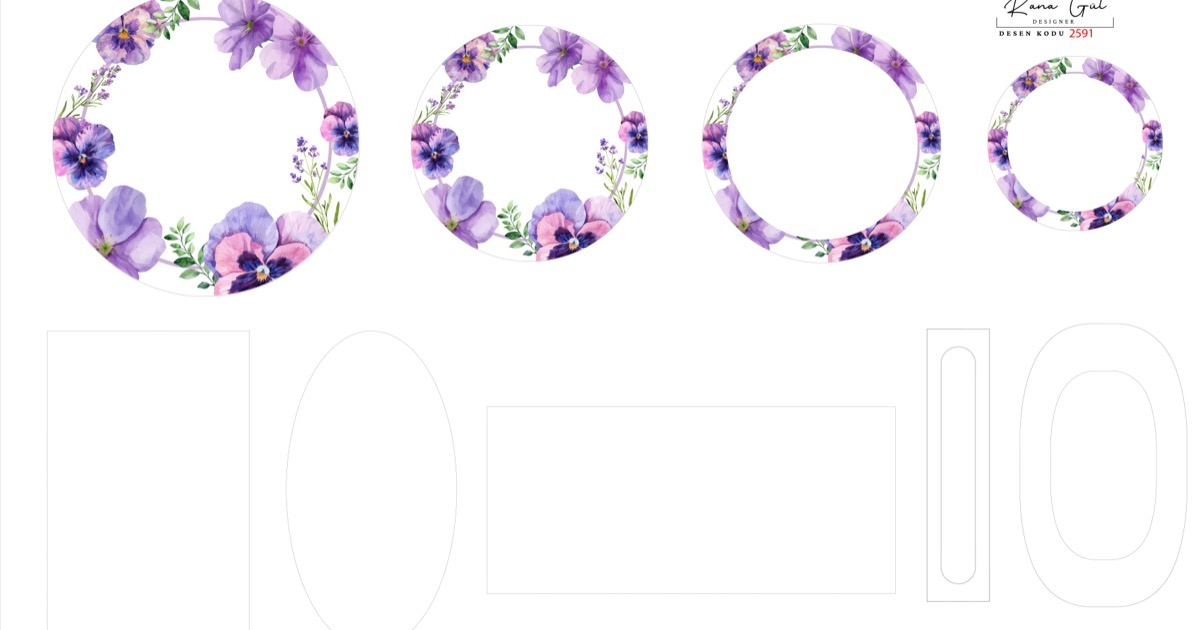
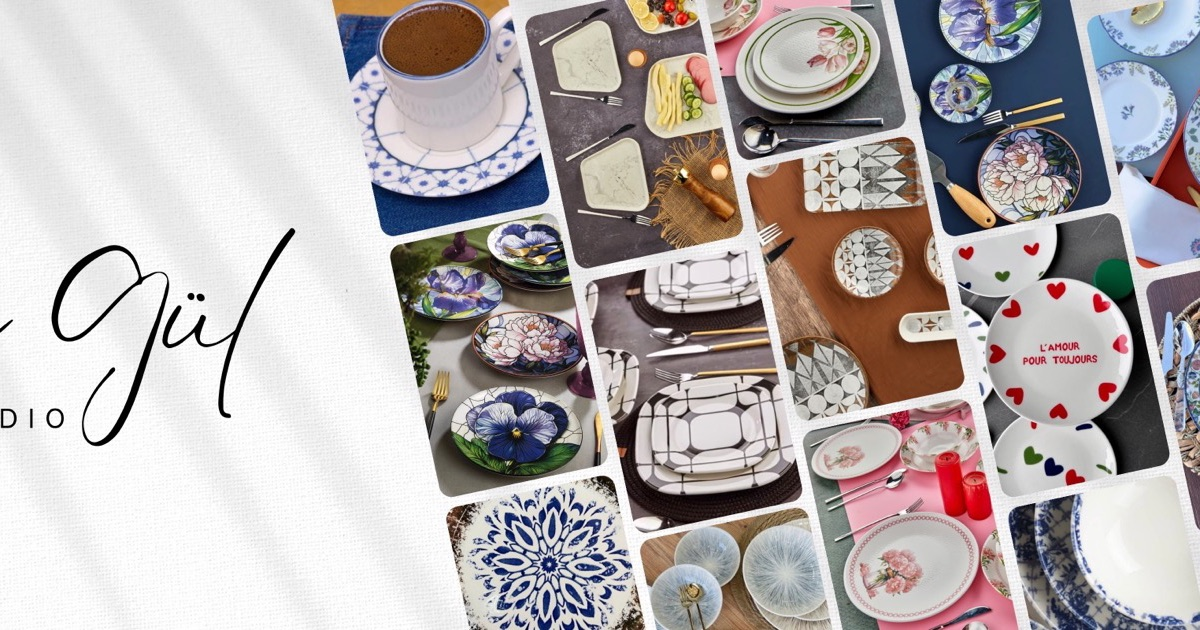
Desen Satın Al: AES-256-GCM şifreleme + şifre kilidi
- Desen önizlemeleri PBKDF2(200k)+AES-GCM ile şifrelendi (desenler-enc/*.enc)
- Şifre girilene kadar tüm bölüm gizli; doğru şifrede tarayıcıda çözülür
- Açık desen JPG'leri repodan/siteden kaldırıldı (.gitignore), yalnızca şifreli yayınlanır
- og-image desen sızdırmaması için kolaj banner'dan yeniden üretildi
- main.js cache-bust (?v=enc1)

diff --git a/js/main.js b/js/main.js
@@ -3,16 +3,43 @@
    Dil değiştirme, mobil menü, galeri/satış üretimi, lightbox.
    ============================================================ */
 
-// --- Desen verisi (DÜZENLE: yeni desen ekleyince buraya bir satır ekle) ---
+// --- Desen verisi (görseller AES ile şifreli; enc = desenler-enc/<id>.enc) ---
 // kategori: "cicekli" | "geometrik" | "botanik"
 const DESENLER = [
-  { kod: "EH DSN 2591", dosya: "desenlerim/EH DSN 2591.jpg", kategori: "cicekli",   fiyat: "₺2.500" },
-  { kod: "EH DSN 2592", dosya: "desenlerim/EH DSN 2592.jpg", kategori: "cicekli",   fiyat: "₺2.500" },
-  { kod: "EH DSN 2598", dosya: "desenlerim/EH DSN 2598.jpg", kategori: "geometrik", fiyat: "₺2.000" },
-  { kod: "EH DSN 2599", dosya: "desenlerim/EH DSN 2599.jpg", kategori: "geometrik", fiyat: "₺2.800" },
-  { kod: "EH DSN 2601", dosya: "desenlerim/EH DSN 2601.jpg", kategori: "geometrik", fiyat: "₺1.800" },
-  { kod: "EH DSN 2605", dosya: "desenlerim/EH DSN 2605.jpg", kategori: "botanik",   fiyat: "₺2.800" },
+  { kod: "EH DSN 2591", enc: "desenler-enc/2591.enc", kategori: "cicekli",   fiyat: "₺2.500" },
+  { kod: "EH DSN 2592", enc: "desenler-enc/2592.enc", kategori: "cicekli",   fiyat: "₺2.500" },
+  { kod: "EH DSN 2598", enc: "desenler-enc/2598.enc", kategori: "geometrik", fiyat: "₺2.000" },
+  { kod: "EH DSN 2599", enc: "desenler-enc/2599.enc", kategori: "geometrik", fiyat: "₺2.800" },
+  { kod: "EH DSN 2601", enc: "desenler-enc/2601.enc", kategori: "geometrik", fiyat: "₺1.800" },
+  { kod: "EH DSN 2605", enc: "desenler-enc/2605.enc", kategori: "botanik",   fiyat: "₺2.800" },
 ];
+
+// --- Şifreleme ayarları (salt gizli değildir; anahtar yalnızca tarayıcıda türetilir) ---
+const ENC_SALT_HEX = "43c343aeff39cf50369d12da51da4d1c";
+const ENC_ITER = 200000;
+let cryptoKey = null;        // çözülmüş AES anahtarı (şifre doğruysa)
+let unlocked = false;        // bölüm açıldı mı
+const blobCache = {};        // kod -> çözülmüş görsel blob URL'i
+
+function hexToBytes(hex) {
+  const a = new Uint8Array(hex.length / 2);
+  for (let i = 0; i < a.length; i++) a[i] = parseInt(hex.substr(i * 2, 2), 16);
+  return a;
+}
+async function deriveKey(password) {
+  const baseKey = await crypto.subtle.importKey(
+    "raw", new TextEncoder().encode(password), "PBKDF2", false, ["deriveKey"]);
+  return crypto.subtle.deriveKey(
+    { name: "PBKDF2", salt: hexToBytes(ENC_SALT_HEX), iterations: ENC_ITER, hash: "SHA-256" },
+    baseKey, { name: "AES-GCM", length: 256 }, false, ["decrypt"]);
+}
+async function decryptToUrl(path, key) {
+  const buf = new Uint8Array(await (await fetch(path)).arrayBuffer());
+  const iv = buf.slice(0, 12);
+  const data = buf.slice(12); // ciphertext + tag
+  const plain = await crypto.subtle.decrypt({ name: "AES-GCM", iv }, key, data);
+  return URL.createObjectURL(new Blob([plain], { type: "image/jpeg" }));
+}
 
 const KATEGORI_AD = {
   cicekli:   { tr: "Çiçekli",   en: "Floral" },
@@ -69,10 +96,10 @@ document.querySelectorAll(".filter").forEach((btn) => {
   });
 });
 
-/* ---------------- Satış ---------------- */
+/* ---------------- Satış (şifre çözülünce) ---------------- */
 const shop = document.getElementById("shop");
 function renderShop() {
-  if (!shop) return;
+  if (!shop || !unlocked) return; // yalnızca kilit açılınca
   shop.innerHTML = "";
   DESENLER.forEach((d) => {
     const tag = KATEGORI_AD[d.kategori];
@@ -86,15 +113,52 @@ function renderShop() {
     const item = document.createElement("article");
     item.className = "shop-item";
     item.innerHTML = `
-      <img src="${src(d.dosya)}" alt="${d.kod}" loading="lazy" />
+      <img src="${blobCache[d.kod] || ""}" alt="${d.kod}" />
       <div class="shop-body">
         <span class="shop-code">${d.kod}</span>
         <span class="shop-tag">${t(tag.tr, tag.en)}</span>
         <span class="shop-price">${d.fiyat}</span>
         <a class="btn btn-primary shop-buy" href="${mailto}">${t("Satın Al / Teklif Al", "Buy / Request Quote")}</a>
-        <a class="shop-wa" href="${wa}" target="_blank" rel="noopener" style="text-align:center;margin-top:8px;font-size:0.85rem;color:var(--metin-soft)">${t("WhatsApp ile sor", "Ask via WhatsApp")}</a>
+        <a class="shop-wa" href="${wa}" target="_blank" rel="noopener" style="text-align:center;margin-top:8px;font-size:0.85rem;color:var(--ink-soft)">${t("WhatsApp ile sor", "Ask via WhatsApp")}</a>
       </div>`;
     shop.appendChild(item);
+  });
+}
+
+/* ---------------- Kilit / şifre çözme ---------------- */
+const lockForm = document.getElementById("lockForm");
+if (lockForm) {
+  lockForm.addEventListener("submit", async (e) => {
+    e.preventDefault();
+    const input = document.getElementById("lockInput");
+    const errorEl = document.getElementById("lockError");
+    const btn = lockForm.querySelector("button");
+    const pw = input.value;
+    errorEl.hidden = true;
+    btn.disabled = true;
+    const oldLabel = btn.textContent;
+    btn.textContent = "…";
+    try {
+      const key = await deriveKey(pw);
+      // Tüm desenleri çöz — yanlış şifrede ilki hata fırlatır
+      for (const d of DESENLER) {
+        blobCache[d.kod] = await decryptToUrl(d.enc, key);
+      }
+      cryptoKey = key;
+      unlocked = true;
+      renderShop();
+      document.getElementById("lockGate").hidden = true;
+      document.getElementById("shopProtected").hidden = false;
+    } catch (err) {
+      // yanlış şifre → çözme başarısız
+      Object.keys(blobCache).forEach((k) => delete blobCache[k]);
+      errorEl.hidden = false;
+      input.value = "";
+      input.focus();
+    } finally {
+      btn.disabled = false;
+      btn.textContent = oldLabel;
+    }
   });
 }
 
@@ -142,6 +206,10 @@ function applyLang(lang) {
   document.querySelectorAll("[data-tr]").forEach((el) => {
     const val = lang === "en" ? el.dataset.en : el.dataset.tr;
     if (val != null) el.innerHTML = val;
+  });
+  // input placeholder çevirileri (data-tr-ph / data-en-ph)
+  document.querySelectorAll("[data-tr-ph]").forEach((el) => {
+    el.placeholder = lang === "en" ? el.dataset.enPh : el.dataset.trPh;
   });
   localStorage.setItem("dil", lang);
   // dinamik bölümleri yeniden çiz (etiketler dile göre)

diff --git a/index.html b/index.html
@@ -158,23 +158,50 @@
       </div>
     </section>
 
-    <!-- ============ DESEN SATIN AL ============ -->
+    <!-- ============ DESEN SATIN AL (ŞİFRELİ) ============ -->
     <section class="section section-alt" id="satis">
       <div class="container">
-        <h2 class="section-title" data-tr="Desen Satın Al" data-en="Buy Patterns">Desen Satın Al</h2>
-        <p class="section-lead"
-           data-tr="Aşağıdaki desenleri lisanslı olarak satın alabilirsiniz. İlgilendiğiniz desen için 'Satın Al / Teklif Al' butonuna tıklayın; ödeme ve teslimat detaylarını sizinle paylaşayım."
-           data-en="The patterns below are available under license. Click 'Buy / Request Quote' for the design you're interested in and I'll share payment and delivery details.">
-          Aşağıdaki desenleri lisanslı olarak satın alabilirsiniz. İlgilendiğiniz desen için 'Satın Al / Teklif Al' butonuna tıklayın; ödeme ve teslimat detaylarını sizinle paylaşayım.
-        </p>
 
-        <div class="shop" id="shop"><!-- JS ile doldurulur --></div>
+        <!-- KİLİT EKRANI -->
+        <div class="lock-gate" id="lockGate">
+          <span class="lock-ico" aria-hidden="true">
+            <svg viewBox="0 0 24 24" width="40" height="40" fill="none" stroke="currentColor" stroke-width="1.6" stroke-linecap="round" stroke-linejoin="round">
+              <rect x="3" y="11" width="18" height="11" rx="2" /><path d="M7 11V7a5 5 0 0 1 10 0v4" />
+            </svg>
+          </span>
+          <h2 class="section-title" data-tr="Desen Satın Al" data-en="Buy Patterns">Desen Satın Al</h2>
+          <p class="section-lead lock-lead"
+             data-tr="Bu bölüm şifrelidir. Desenleri görüntülemek için şifreyi girin."
+             data-en="This section is encrypted. Enter the password to view the designs.">
+            Bu bölüm şifrelidir. Desenleri görüntülemek için şifreyi girin.
+          </p>
+          <form class="lock-form" id="lockForm" autocomplete="off">
+            <input type="password" id="lockInput" required
+                   data-tr-ph="Şifre" data-en-ph="Password" placeholder="Şifre" aria-label="Şifre" />
+            <button class="btn btn-primary" type="submit" data-tr="Aç" data-en="Unlock">Aç</button>
+          </form>
+          <p class="lock-error" id="lockError" role="alert" hidden
+             data-tr="Şifre hatalı. Tekrar deneyin." data-en="Wrong password. Try again.">Şifre hatalı. Tekrar deneyin.</p>
+        </div>
 
-        <p class="license-note"
-           data-tr="* Tüm desenler Rana Gül'e aittir. Satın alım, üzerinde anlaşılan kullanım lisansını kapsar; yeniden satış ve dağıtım izinsiz yapılamaz."
-           data-en="* All patterns belong to Rana Gül. A purchase covers the agreed usage license; resale and redistribution are not permitted without consent.">
-          * Tüm desenler Rana Gül'e aittir. Satın alım, üzerinde anlaşılan kullanım lisansını kapsar; yeniden satış ve dağıtım izinsiz yapılamaz.
-        </p>
+        <!-- ŞİFRE GİRİLİNCE GÖRÜNEN İÇERİK -->
+        <div class="shop-protected" id="shopProtected" hidden>
+          <h2 class="section-title" data-tr="Desen Satın Al" data-en="Buy Patterns">Desen Satın Al</h2>
+          <p class="section-lead"
+             data-tr="Aşağıdaki desenleri lisanslı olarak satın alabilirsiniz. İlgilendiğiniz desen için 'Satın Al / Teklif Al' butonuna tıklayın; ödeme ve teslimat detaylarını sizinle paylaşayım."
+             data-en="The patterns below are available under license. Click 'Buy / Request Quote' for the design you're interested in and I'll share payment and delivery details.">
+            Aşağıdaki desenleri lisanslı olarak satın alabilirsiniz. İlgilendiğiniz desen için 'Satın Al / Teklif Al' butonuna tıklayın; ödeme ve teslimat detaylarını sizinle paylaşayım.
+          </p>
+
+          <div class="shop" id="shop"><!-- JS ile çözülüp doldurulur --></div>
+
+          <p class="license-note"
+             data-tr="* Tüm desenler Rana Gül'e aittir. Satın alım, üzerinde anlaşılan kullanım lisansını kapsar; yeniden satış ve dağıtım izinsiz yapılamaz."
+             data-en="* All patterns belong to Rana Gül. A purchase covers the agreed usage license; resale and redistribution are not permitted without consent.">
+            * Tüm desenler Rana Gül'e aittir. Satın alım, üzerinde anlaşılan kullanım lisansını kapsar; yeniden satış ve dağıtım izinsiz yapılamaz.
+          </p>
+        </div>
+
       </div>
     </section>
 
@@ -265,6 +292,6 @@
   </div>
 
   <script async src="https://www.instagram.com/embed.js"></script>
-  <script src="js/main.js"></script>
+  <script src="js/main.js?v=enc1"></script>
 </body>
 </html>

diff --git a/css/style.css b/css/style.css
@@ -244,6 +244,19 @@ body[data-lang="en"] .lang-en { color: var(--accent); }
   .proje-btn { position: static; }
 }
 
+/* ---------- Şifre kilidi ---------- */
+.lock-gate { max-width: 480px; margin: 0 auto; text-align: center; padding: 20px 0; }
+.lock-ico { display: inline-flex; color: var(--accent); margin-bottom: 18px; }
+.lock-gate .section-title { margin-bottom: 14px; }
+.lock-lead { margin: 0 auto 26px; }
+.lock-form { display: flex; gap: 12px; justify-content: center; flex-wrap: wrap; }
+.lock-form input {
+  font: inherit; font-size: 0.98rem; padding: 13px 16px; min-width: 220px; flex: 1;
+  border: 1px solid var(--line); border-radius: var(--r); background: #fff; color: var(--ink);
+}
+.lock-form input:focus { outline: none; border-color: var(--ink); }
+.lock-error { color: #c0392b; font-size: 0.9rem; margin: 16px 0 0; }
+
 /* ---------- Satış ---------- */
 .shop { display: grid; grid-template-columns: repeat(3, 1fr); gap: 28px; }
 .shop-item {